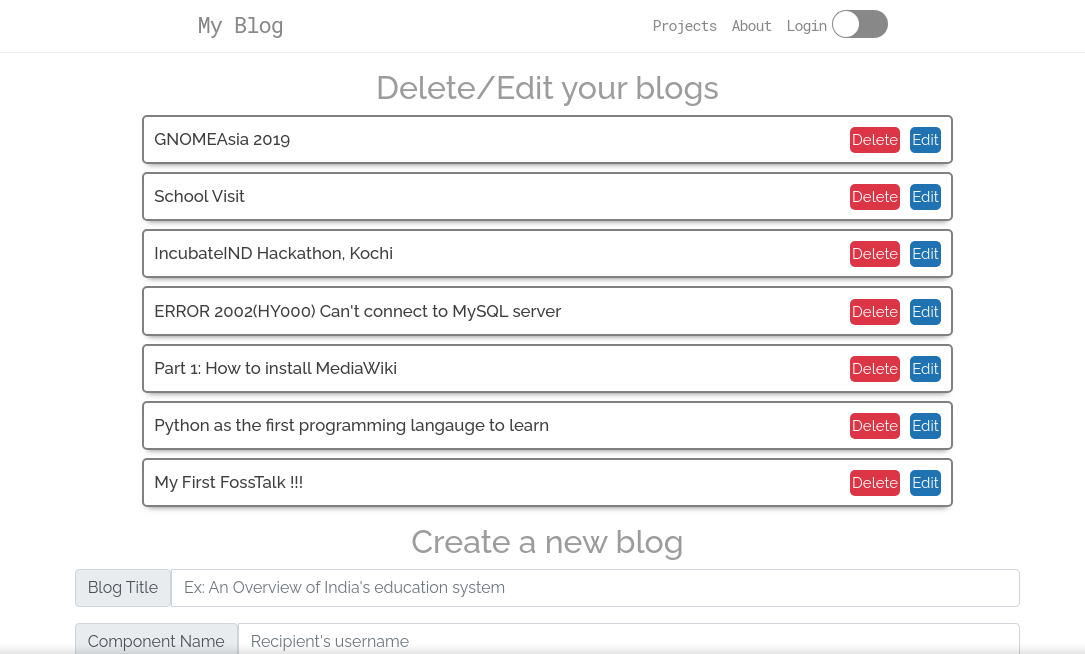
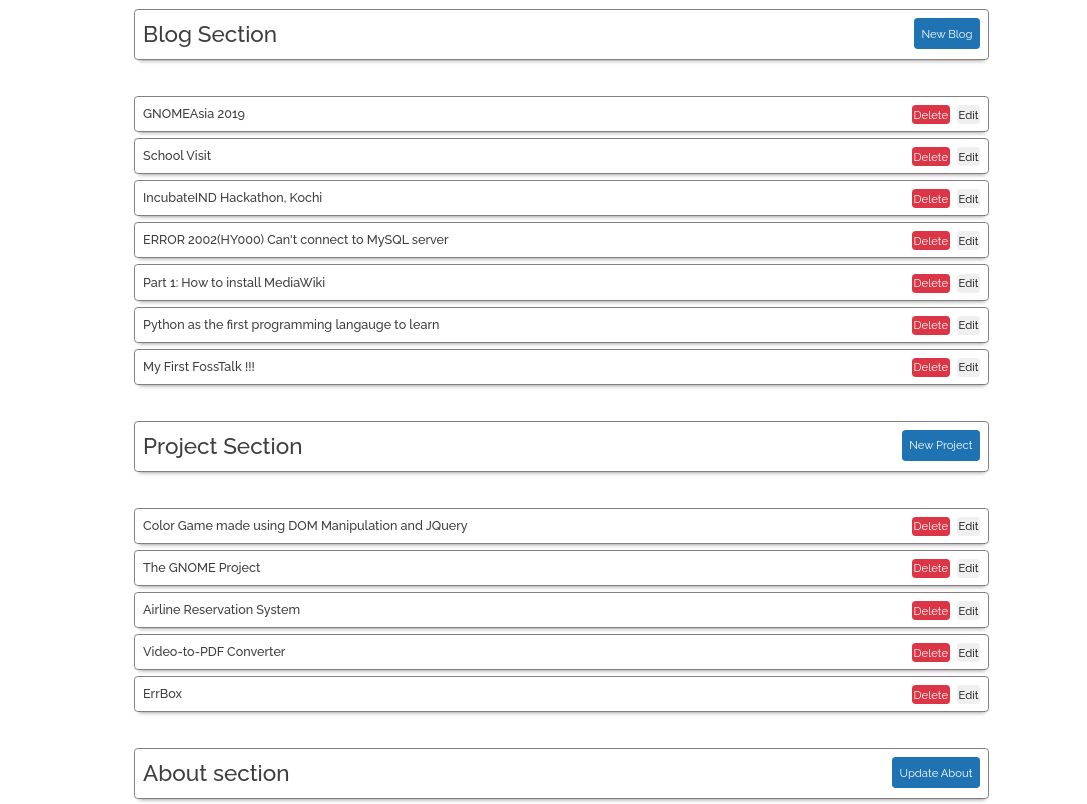
Update README.md

Changed region(s): [[0.0608, 0.1223, 0.9124, 1.0], [0.1217, 0.0, 0.9124, 0.0917]]

diff --git a/README.md b/README.md
@@ -47,7 +47,7 @@ The about page is where you can have a small write-up about yourself
 ## The Admin page
 
 ![Admin](/public/Admin.png)
-The Admin page is the where you can edit, delete or create your blogs.
+The Admin page is the where you can edit, delete or create your blogs and projects. You can edit your about page as well.
 
 ## The Login page
 
